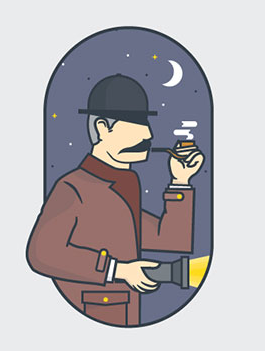
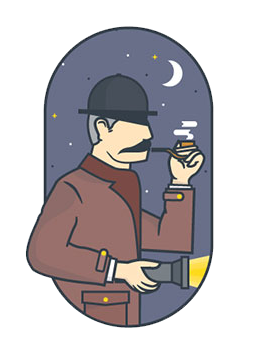
rr

diff --git a/index.html b/index.html
@@ -10,7 +10,7 @@
         <link rel="stylesheet" href="style.css">
     </head>
     <body>
-       <img src="111.jpg" alt="serlokas">
+       <img src="222.png" alt="serlokas">
        <div>
             <h1>404</h1>
             <p>Lorem ipsum dolor sit amet consectetur adipisicing elit. Tempora, fugiat quod obcaecati ipsa voluptas dolorum.</p>

diff --git a/style.css b/style.css
@@ -13,6 +13,8 @@ img {
     width: 50%;
     float: left;
     object-fit: contain;
+    height: 700px;
+    margin-top: 120px;
     
 
 }
@@ -22,8 +24,10 @@ div {
     width: 50%;
     float: left;
     text-align: center;
-    margin-top: 200px;
+    margin-top: 350px;
     font-size: 20px;
+    
+    
     
 }
 
